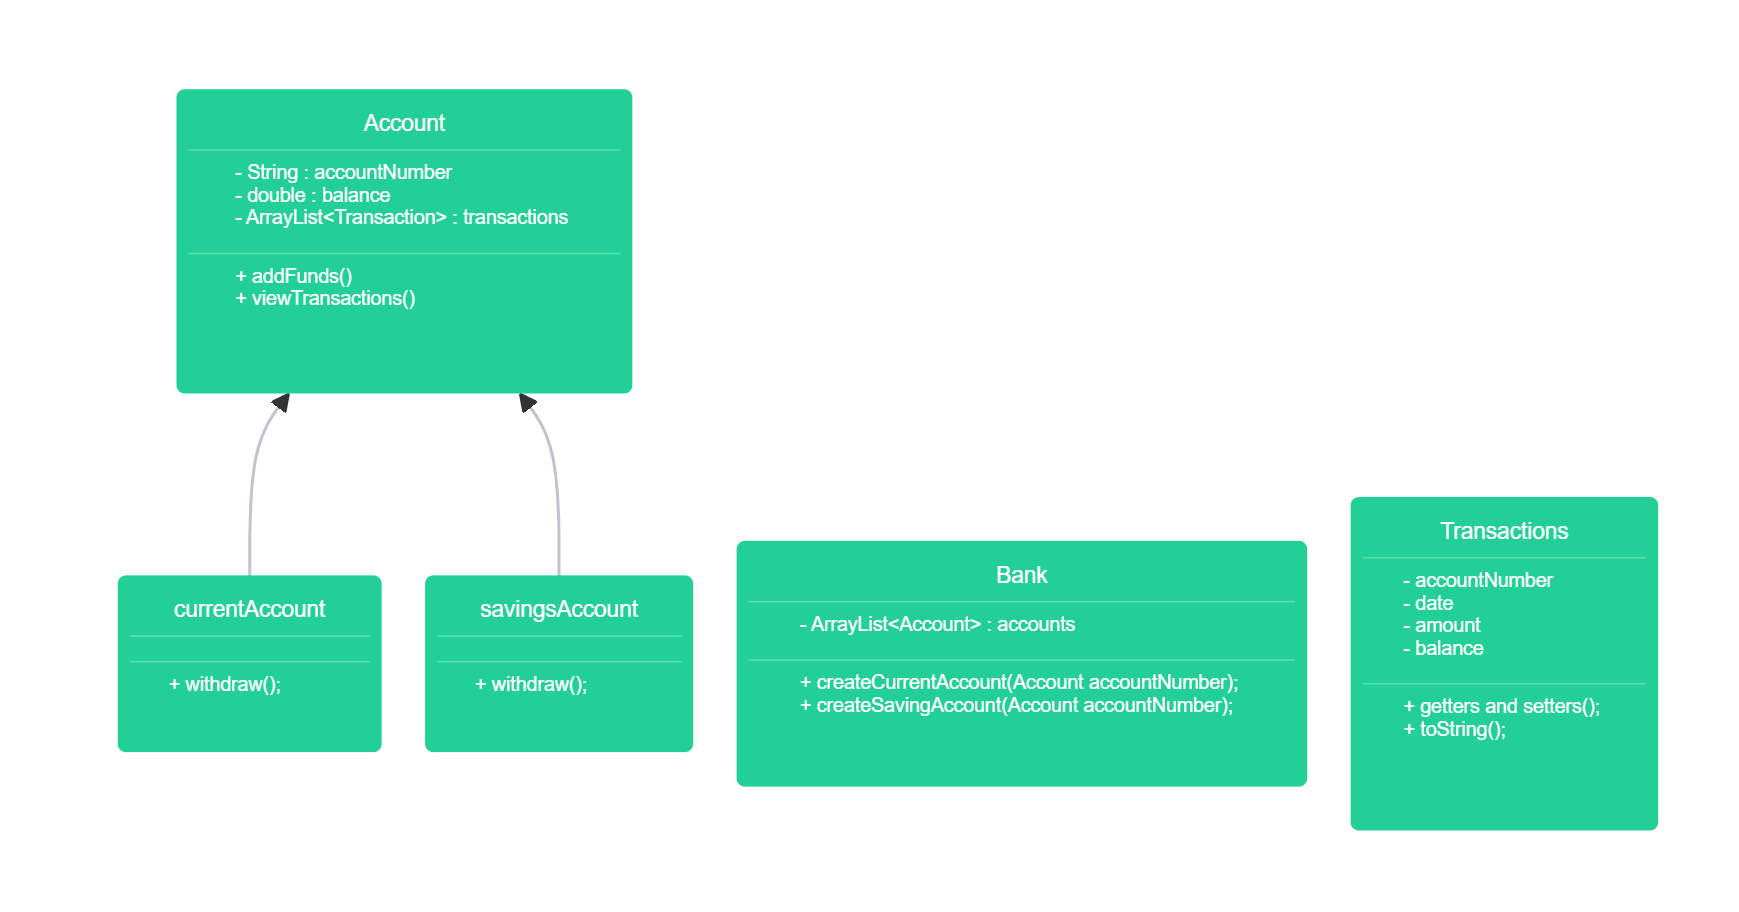
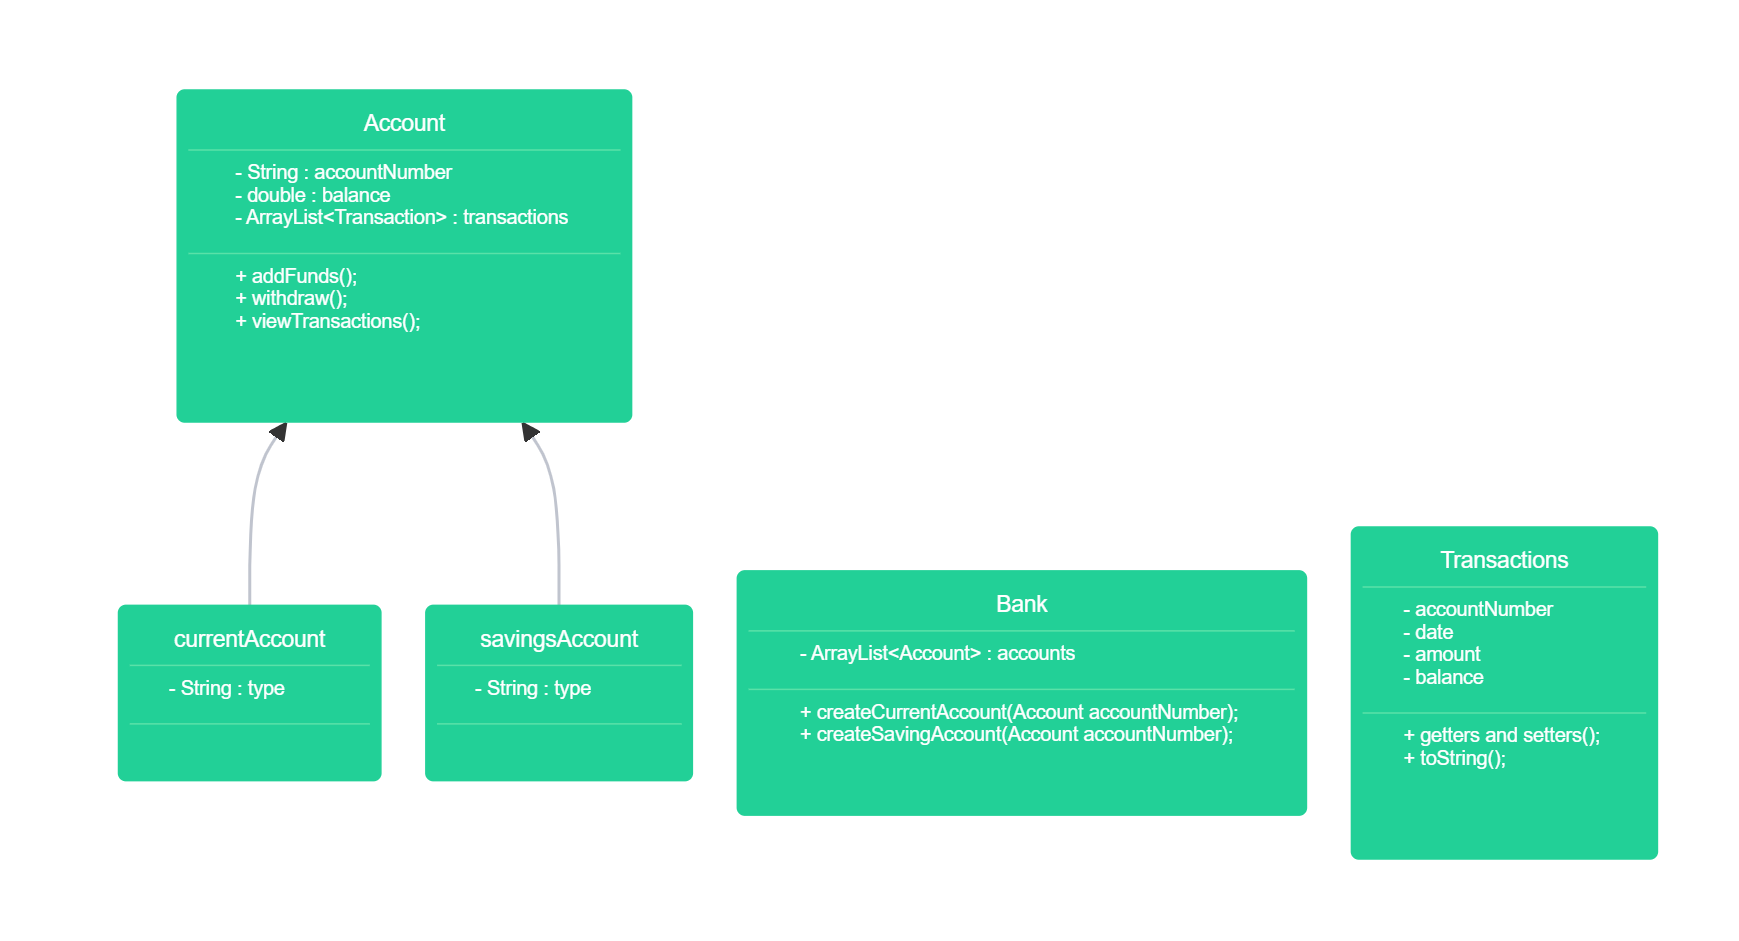
Completed core and updated class diagram and tests

diff --git a/src/main/java/com/booleanuk/core/Account.java b/src/main/java/com/booleanuk/core/Account.java
@@ -4,6 +4,7 @@ import java.time.LocalDate;
 import java.time.LocalDateTime;
 import java.time.format.DateTimeFormatter;
 import java.util.ArrayList;
+import java.util.Collections;
 import java.util.List;
 
 public class Account {
@@ -13,7 +14,7 @@ public class Account {
     private String type;
     private List<Transaction> transactions;
 
-    public Account (String accountNumber, double balance, String type) {
+    public Account(String accountNumber, double balance, String type) {
         this.accountNumber = accountNumber;
         this.balance = balance;
         this.type = type;
@@ -23,6 +24,7 @@ public class Account {
     public double addFunds(double amount) {
         balance += amount;
 
+        // Add to history
         DateTimeFormatter dtf = DateTimeFormatter.ofPattern("yyyy-MM-dd");
         LocalDateTime now = LocalDateTime.now();
         String dateTime = dtf.format(now);
@@ -31,21 +33,34 @@ public class Account {
         return balance;
     }
 
-    
+    public double withdraw(double amount) {
 
-    public static void main(String[] args) {
-        CurrentAccount currentAccount = new CurrentAccount("1234C",50d);
+        if (amount > balance) {
+            System.out.println("Not enough to withdraw, your balance is: " + balance);
+            return balance;
+        }
+        // Add to history
+        balance = balance - amount;
+        DateTimeFormatter dtf = DateTimeFormatter.ofPattern("yyyy-MM-dd");
+        LocalDateTime now = LocalDateTime.now();
+        String dateTime = dtf.format(now);
+        transactions.add(new Transaction(dateTime, 0, amount, balance));
 
-        System.out.println(currentAccount.addFunds(100));
-
+        return balance;
     }
 
+    public void viewTransaction() {
+        System.out.println("Account number: " + getAccountNumber());
+        System.out.println("Account type: " + getType()+"\n");
 
+        System.out.printf("%-20s || %-20s || %-20s || %-20s\n", "Date", "Credit", "Debit", "Balance");
 
-
-
-
-
+        // Showing the newest activity first
+        Collections.reverse(transactions);
+        for (Transaction transaction : transactions) {
+            System.out.printf("%-20s || %-20s || %-20s || %-20s\n", transaction.getDate(), transaction.getCredit(), transaction.getDebit(), transaction.getBalance());
+        }
+    }
 
     public String getAccountNumber() {
         return accountNumber;
@@ -61,6 +76,10 @@ public class Account {
 
     public void setBalance(double balance) {
         this.balance = balance;
+    }
+
+    public String getType() {
+        return type;
     }
 
     public List<Transaction> getTransactions() {

diff --git a/src/test/java/com/booleanuk/core/bankTest.java b/src/test/java/com/booleanuk/core/bankTest.java
@@ -48,10 +48,38 @@ public class bankTest {
         Assertions.assertEquals(150,account.addFunds(100));
     }
 
-//    @Test
-//    public void addWithdrawTest() {
-//        CurrentAccount account = new CurrentAccount("1234C", 100d, "current");
-//
-//        Assertions.assertEquals(0,account.withdraw(100));
-//    }
+    @Test
+    public void withdrawTest() {
+        CurrentAccount account = new CurrentAccount("1234C", 100d);
+
+        Assertions.assertEquals(0,account.withdraw(100));
+    }
+
+    @Test
+    public void withdrawNoBalance() {
+        CurrentAccount account = new CurrentAccount("1234C", 0d);
+
+        Assertions.assertEquals(0,account.withdraw(100));
+    }
+
+    @Test
+    public void withdrawLowBalance() {
+        CurrentAccount account = new CurrentAccount("1234C", 50d);
+
+        Assertions.assertEquals(50,account.withdraw(100));
+    }
+    @Test
+    public void WithdrawTest2() {
+        CurrentAccount account = new CurrentAccount("1234C", 1000d);
+
+        Assertions.assertEquals(900,account.withdraw(100));
+    }
+
+    @Test
+    public void transaction() {
+        Account account = new Account("123C", 100, "current");
+        account.addFunds(250);
+        account.withdraw(100);
+        account.viewTransaction();
+    }
 }

diff --git a/src/main/java/com/booleanuk/core/SavingAccount.java b/src/main/java/com/booleanuk/core/SavingAccount.java
@@ -7,4 +7,6 @@ public class SavingAccount extends Account{
 
 
     }
+
+
 }
